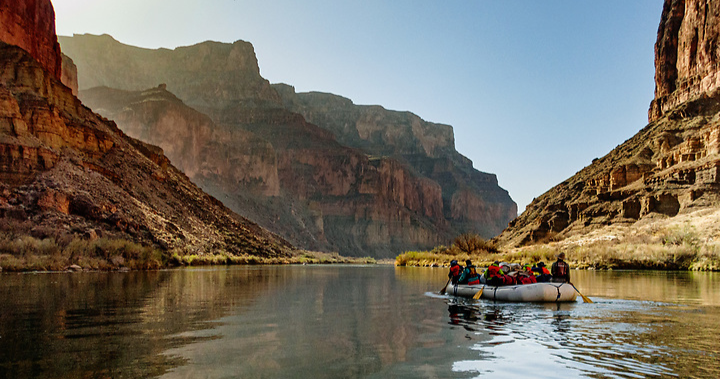
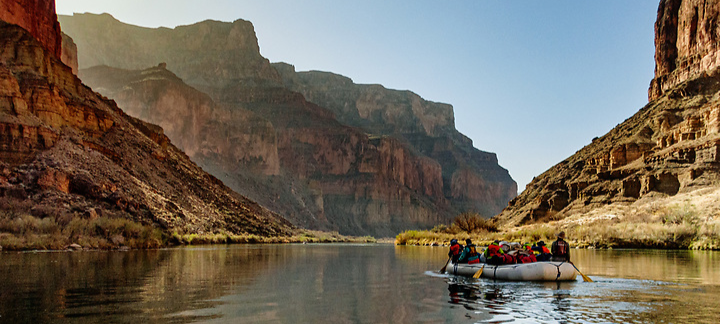
add

diff --git a/wwr/styles/rafting.css b/wwr/styles/rafting.css
@@ -28,7 +28,9 @@ body {
 }
 
 .bg-img {
-    display: block;
+    display: grid   ;
+    align-content: center;
+    align-items: center;
     width: 100%;
     height: auto;
     border-radius: 0 0 30px 30px;
@@ -44,6 +46,7 @@ body {
     padding: 0px;
     display: flex;
     align-content: center;
+    border-radius: 10px;
 }
 
 .grid-history {
@@ -72,9 +75,7 @@ article {
     color: #ffffff;
 }
 
-header img {
-    width: 60px;
-}
+
 
 article img {
     position: relative ;
@@ -95,6 +96,10 @@ header {
     padding: 20px;
     background-color: var(--accent1-color);
     display: flex;
+}
+
+header img {
+    width: 60px;
 }
 
 .grid-menu {
